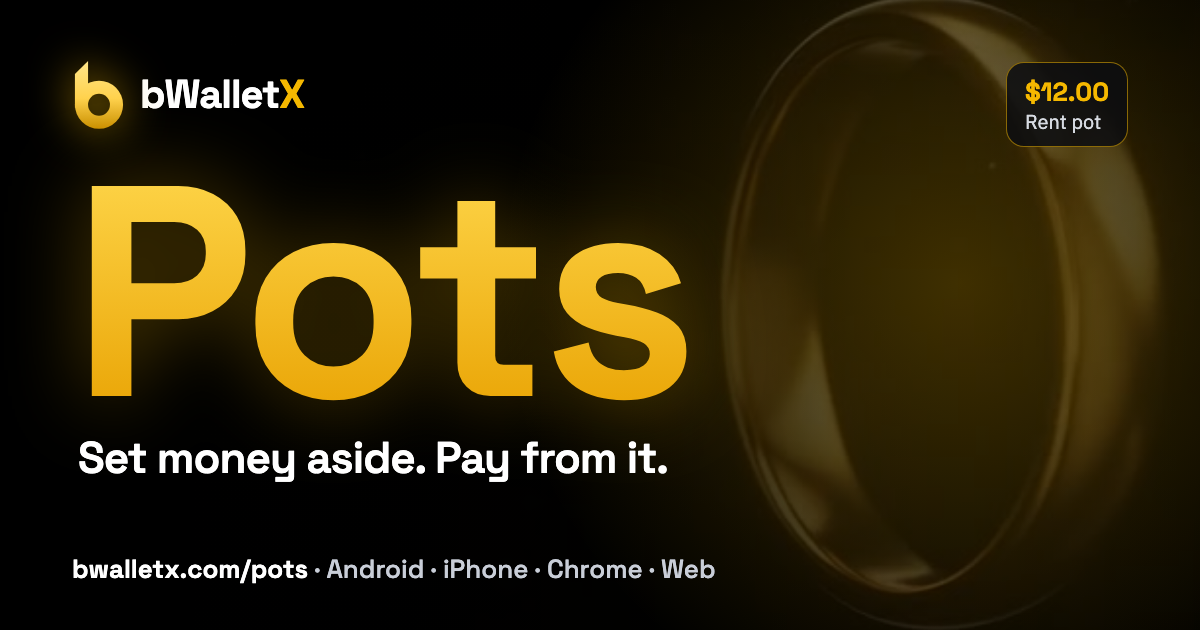
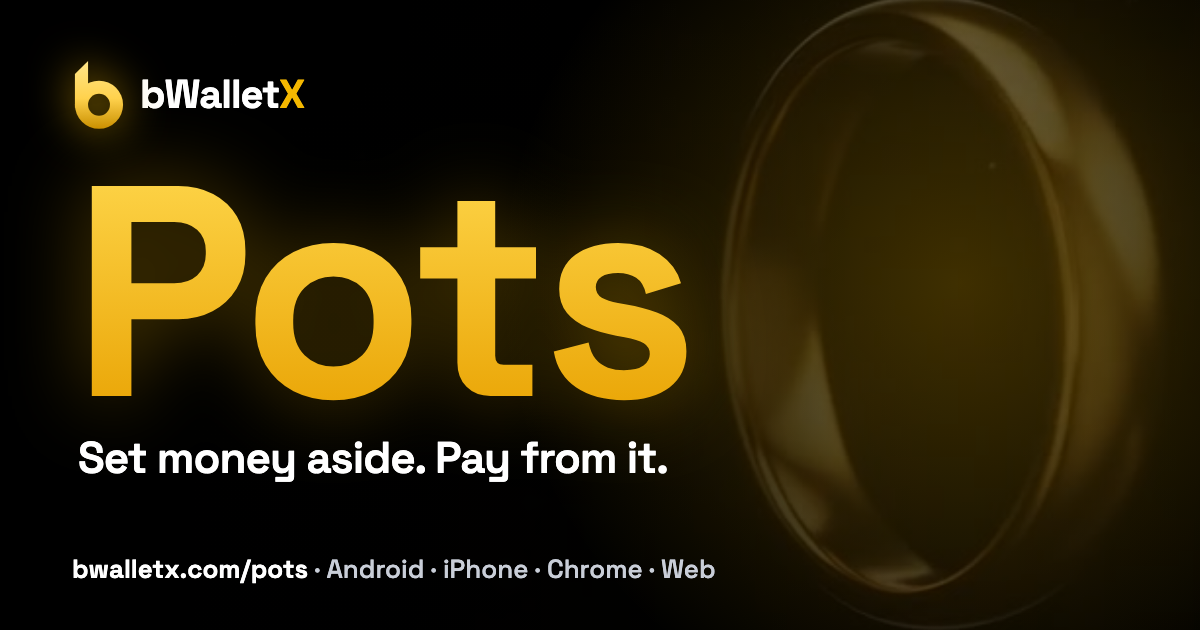
Subscriptions v3 share image with a labelled $0.01/day example; Pots image without example price

Changed region(s): [[0.8325, 0.0905, 0.9558, 0.2413]]

diff --git a/subscriptions.html b/subscriptions.html
@@ -10,7 +10,7 @@
     <meta property="og:site_name" content="bWalletX" />
     <meta property="og:title" content="Subscriptions: bWalletX" />
     <meta property="og:description" content="Put money aside in a pot and pay regular amounts from it. The pot balance is the most anyone can take. Pause or cancel any time." />
-    <meta property="og:image" content="https://bwalletx.com/og-subscriptions-v2.png" />
+    <meta property="og:image" content="https://bwalletx.com/og-subscriptions-v3.png" />
     <meta property="og:image:width" content="1200" />
     <meta property="og:image:height" content="630" />
     <meta property="og:image:alt" content="Put money aside in a pot and pay regular amounts from it. The pot balance is the most anyone can take. Pause or cancel any time." />
@@ -18,7 +18,7 @@
     <meta name="twitter:site" content="@bWalletX" />
     <meta name="twitter:title" content="Subscriptions: bWalletX" />
     <meta name="twitter:description" content="Put money aside in a pot and pay regular amounts from it. The pot balance is the most anyone can take. Pause or cancel any time." />
-    <meta name="twitter:image" content="https://bwalletx.com/og-subscriptions-v2.png" />
+    <meta name="twitter:image" content="https://bwalletx.com/og-subscriptions-v3.png" />
     <link rel="icon" href="/favicon.ico" />
     <link rel="stylesheet" href="/styles.css" />
     <style>

diff --git a/pots.html b/pots.html
@@ -10,7 +10,7 @@
     <meta property="og:site_name" content="bWalletX" />
     <meta property="og:title" content="Pots: bWalletX" />
     <meta property="og:description" content="A pot is money set aside inside your wallet. Standing orders and subscriptions pay from it, and the pot balance is the most they can ever take." />
-    <meta property="og:image" content="https://bwalletx.com/og-pots.png" />
+    <meta property="og:image" content="https://bwalletx.com/og-pots-v2.png" />
     <meta property="og:image:width" content="1200" />
     <meta property="og:image:height" content="630" />
     <meta property="og:image:alt" content="A pot is money set aside inside your wallet. Standing orders and subscriptions pay from it, and the pot balance is the most they can ever take." />
@@ -18,7 +18,7 @@
     <meta name="twitter:site" content="@bWalletX" />
     <meta name="twitter:title" content="Pots: bWalletX" />
     <meta name="twitter:description" content="A pot is money set aside inside your wallet. Standing orders and subscriptions pay from it, and the pot balance is the most they can ever take." />
-    <meta name="twitter:image" content="https://bwalletx.com/og-pots.png" />
+    <meta name="twitter:image" content="https://bwalletx.com/og-pots-v2.png" />
     <link rel="icon" href="/favicon.ico" />
     <link rel="stylesheet" href="/styles.css" />
     <style>
